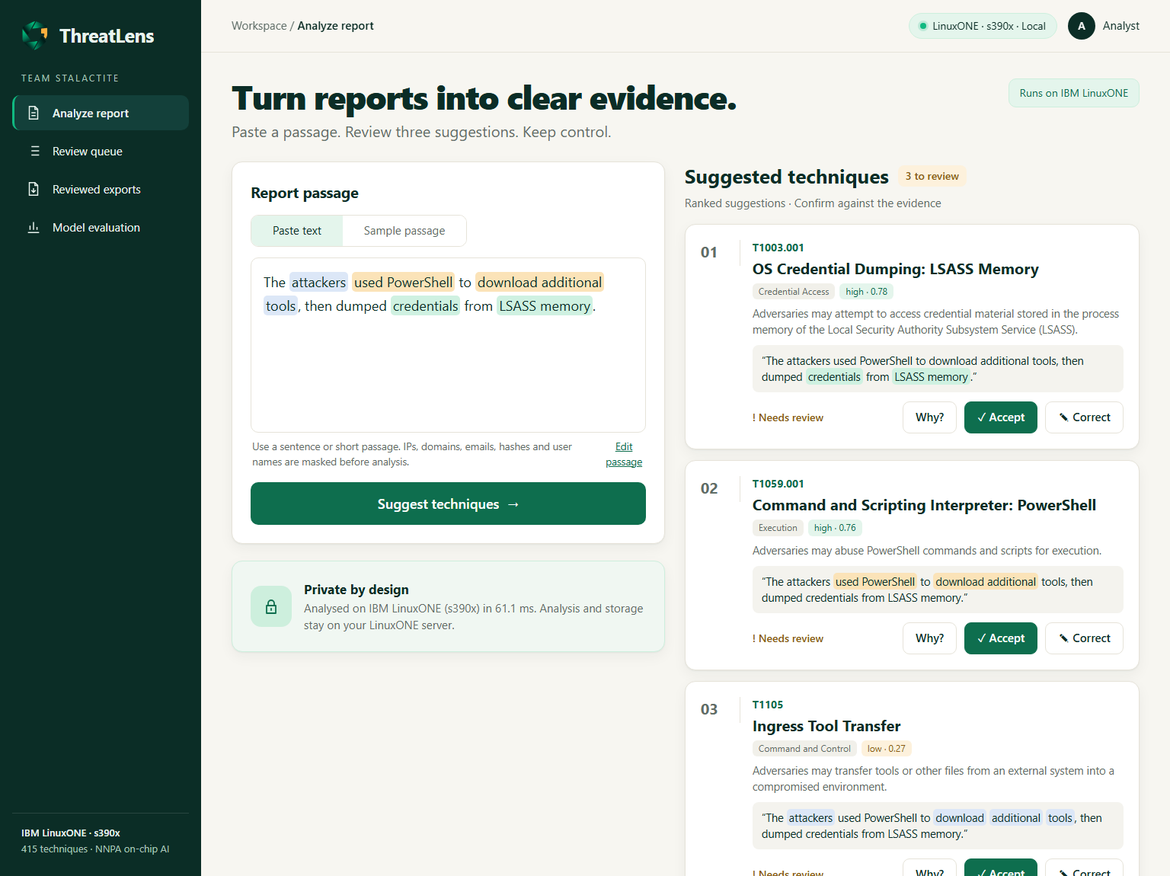
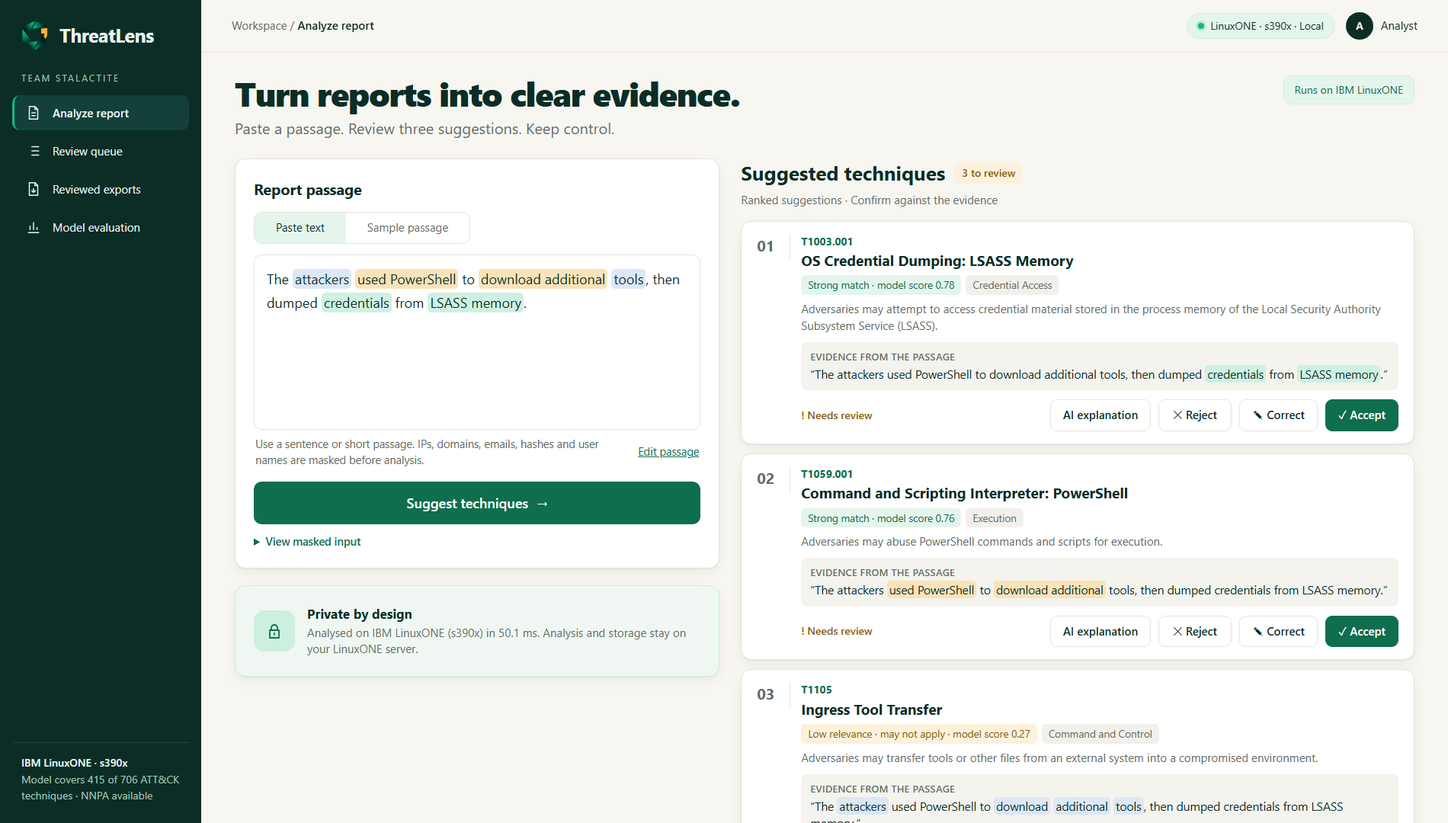
UI review fixes: Reject on cards, low-relevance flag, decided states, masked-input view, clearer model coverage and NNPA wording, evaluation model card

Changed region(s): [[0.0, 0.0, 0.9688, 1.0], [0.7812, 0.0, 0.9688, 0.0611], [0.875, 0.0917, 0.9688, 0.1222]]

diff --git a/app/static/app.js b/app/static/app.js
@@ -67,6 +67,8 @@ function decide(i, decision, extra = {}) {
 }
 const pending = () => state.decisions.filter((d) => d.decision === "pending").length;
 const DECISION_TEXT = { accepted: "✓ Accepted", corrected: "✎ Corrected", rejected: "✕ Rejected", pending: "! Needs review" };
+const MATCH = { high: "Strong match", medium: "Possible match", low: "Low relevance · may not apply" };
+const SCORE_TIP = "Classifier probability for this technique: a ranking signal, not verified accuracy.";
 
 function picker(i) {
   const s = state.analysis.suggestions[i];
@@ -89,7 +91,7 @@ function picker(i) {
 
 async function explain(i, btn) {
   const s = state.analysis.suggestions[i];
-  btn.disabled = true; btn.replaceChildren(h("span", { class: "spinner dark" }), "Granite is reasoning on LinuxONE…");
+  btn.disabled = true; btn.replaceChildren(h("span", { class: "spinner dark" }), "Granite is writing on LinuxONE…");
   try {
     state.explains[i] = await api("/api/explain", { technique_id: s.technique_id, evidence: s.evidence });
   } catch (e) { state.explains[i] = { error: e.message }; }
@@ -99,8 +101,9 @@ function whyBlock(i) {
   const x = state.explains[i];
   if (!x) return null;
   if (x.error) return h("div", { class: "why" }, x.error);
-  return h("div", { class: "why" }, x.text || "(no explanation generated)",
-    h("small", {}, `Draft by IBM Granite (${x.model}) running locally on LinuxONE in ${x.seconds}s${x.load_seconds ? `, model loaded in ${x.load_seconds}s` : ""}. Verify before use.`));
+  return h("div", { class: "why" }, h("div", { class: "why-h" }, "AI explanation · IBM Granite, generated on LinuxONE"),
+    x.text || "(no explanation generated)",
+    h("small", {}, `${x.model} · ${x.seconds}s. Generated text: check it against the evidence above.`));
 }
 
 // ---------- Analyze page ----------
@@ -134,7 +137,12 @@ function renderAnalyze() {
         a && !state.editing ? h("button", { class: "linkbtn", onclick: () => { state.editing = true; render(); } }, "Edit passage") : null),
       h("button", { class: "primary", onclick: (e) => analyze(e.currentTarget) }, "Suggest techniques", h("span", {}, "→")),
       a && Object.keys(a.redactions).length ? h("div", { class: "notice" },
-        "Masked before analysis: ", Object.entries(a.redactions).map(([k, v]) => `${v} ${k}`).join(", "), ". Only the masked text is stored or exported.") : null),
+        "Masked before analysis: ", Object.entries(a.redactions).map(([k, v]) => `${v} ${k}`).join(", "), ". Only the masked text is stored or exported.") : null,
+      a ? h("details", { class: "masked" }, h("summary", {}, "View masked input"),
+        h("p", { class: "desc" }, Object.keys(a.redactions).length
+          ? "The model, the AI explanation and any saved review only ever see this masked version:"
+          : "Nothing sensitive was detected, so the text was analysed as entered:"),
+        h("pre", {}, a.passage_redacted)) : null),
     h("div", { class: "card private" },
       h("div", { class: "ico" }, lockIcon()),
       h("div", {}, h("h3", {}, "Private by design"),
@@ -170,17 +178,19 @@ function suggestionCard(s, i) {
     h("div", {},
       h("div", { class: "tid" }, s.technique_id),
       h("h3", {}, s.name),
-      h("div", { class: "chips" }, s.tactics.map((t) => h("span", { class: "chip" }, t)),
-        h("span", { class: `chip conf-${s.confidence}`, title: "model probability" }, `${s.confidence} · ${s.score.toFixed(2)}`)),
+      h("div", { class: "chips" },
+        h("span", { class: `chip conf-${s.confidence}`, title: SCORE_TIP }, `${MATCH[s.confidence]} · model score ${s.score.toFixed(2)}`),
+        s.tactics.map((t) => h("span", { class: "chip" }, t))),
       h("p", { class: "desc" }, s.summary),
-      h("div", { class: "quote" }, "“", highlight(s.evidence, [{ terms: s.evidence_terms, cls: `r${i + 1}` }]), "”"),
+      h("div", { class: "quote" }, h("span", { class: "quote-h" }, "Evidence from the passage"), "“", highlight(s.evidence, [{ terms: s.evidence_terms, cls: `r${i + 1}` }]), "”"),
       h("div", { class: "actions" },
         h("span", { class: `state ${d.decision}` }, stateLabel),
-        h("button", { class: "btn", onclick: (e) => explain(i, e.currentTarget), disabled: !state.health?.granite?.available }, "Why?"),
+        h("button", { class: "btn", onclick: (e) => explain(i, e.currentTarget), disabled: !state.health?.granite?.available, title: "Ask IBM Granite (runs on LinuxONE) to explain this match" }, "AI explanation"),
         decided
-          ? h("button", { class: "linkbtn", onclick: undo, title: "Back to undecided" }, "Undo")
-          : [h("button", { class: "btn go", onclick: () => decide(i, "accepted", { corrected_to: "", corrected_name: "" }) }, "✓ Accept"),
-             h("button", { class: "btn", onclick: () => { state.picker = state.picker === i ? null : i; render(); } }, "✎ Correct")]),
+          ? h("button", { class: "btn", onclick: undo, title: "Back to undecided" }, "Undo")
+          : [h("button", { class: "btn", onclick: () => decide(i, "rejected", { corrected_to: "", corrected_name: "" }) }, "✕ Reject"),
+             h("button", { class: "btn", onclick: () => { state.picker = state.picker === i ? null : i; render(); } }, "✎ Correct"),
+             h("button", { class: "btn go", onclick: () => decide(i, "accepted", { corrected_to: "", corrected_name: "" }) }, "✓ Accept")]),
       state.picker === i ? picker(i) : null,
       whyBlock(i)));
 }
@@ -222,13 +232,19 @@ function renderQueue() {
     h("p", { class: "desc" }, s.summary),
     h("div", { class: "label" }, "Evidence from report"),
     h("div", { class: "quote" }, "“", highlight(s.evidence, [{ terms: s.evidence_terms, cls: `r${i + 1}` }]), "”"),
-    whyBlock(i) || h("button", { class: "btn", onclick: (e) => explain(i, e.currentTarget), disabled: !state.health?.granite?.available }, "Explain with IBM Granite"),
+    whyBlock(i) || h("button", { class: "btn", onclick: (e) => explain(i, e.currentTarget), disabled: !state.health?.granite?.available }, "AI explanation (IBM Granite)"),
     h("div", { class: "label" }, "Analyst note"),
     h("textarea", { placeholder: "Why you accepted or changed this mapping…", oninput: (e) => { state.decisions[i].note = e.target.value; state.savedId = null; } }, d.note || ""),
+    d.decision !== "pending" ? h("div", { class: `decided ${d.decision}` },
+      d.decision === "corrected" ? `✎ Corrected to ${d.corrected_to} · ${d.corrected_name}` : DECISION_TEXT[d.decision],
+      h("button", { class: "linkbtn", onclick: () => decide(i, "pending", { corrected_to: "", corrected_name: "" }) }, "Undo")) : null,
     h("div", { class: "btnrow" },
-      h("button", { class: "btn go", onclick: () => decide(i, "accepted", { corrected_to: "", corrected_name: "" }) }, "Accept suggestion"),
-      h("button", { class: "btn ghost", onclick: () => { state.picker = state.picker === i ? null : i; render(); } }, "Change technique"),
-      h("button", { class: "btn", onclick: () => decide(i, "rejected", { corrected_to: "", corrected_name: "" }) }, "Reject")),
+      h("button", { class: "btn go", disabled: d.decision === "accepted", onclick: () => decide(i, "accepted", { corrected_to: "", corrected_name: "" }) },
+        d.decision === "accepted" ? "Accepted ✓" : "Accept suggestion"),
+      h("button", { class: "btn ghost", onclick: () => { state.picker = state.picker === i ? null : i; render(); } },
+        d.decision === "corrected" ? "Change again" : "Change technique"),
+      h("button", { class: "btn", disabled: d.decision === "rejected", onclick: () => decide(i, "rejected", { corrected_to: "", corrected_name: "" }) },
+        d.decision === "rejected" ? "Rejected ✕" : "Reject")),
     state.picker === i ? picker(i) : null);
   const fmt = h("select", {}, h("option", { value: "csv" }, "CSV"), h("option", { value: "json" }, "JSON"));
   const left = pending();
@@ -257,15 +273,19 @@ async function renderExports() {
   view.replaceChildren(h("div", { class: "empty" }, "Loading saved reviews…"));
   const reviews = await api("/api/reviews").catch(() => []);
   const count = (r, k) => r.decisions.filter((d) => d.decision === k).length;
+  const dl = (fmt, cls) => reviews.length
+    ? h("a", { class: `btn ${cls}`, href: `/api/export?format=${fmt}` }, `Download ${fmt.toUpperCase()}`)
+    : h("button", { class: `btn ${cls}`, disabled: true, title: "Save a review first" }, `Download ${fmt.toUpperCase()}`);
   view.replaceChildren(
     h("div", { class: "hero" }, h("div", {}, h("h1", {}, "Reviewed exports."), h("p", { class: "lede" }, "Every saved review, stored on LinuxONE with sensitive values masked.")),
-      h("div", { class: "btnrow", style: "margin:0" }, h("a", { class: "btn go", href: "/api/export?format=csv" }, "Download CSV"), h("a", { class: "btn", href: "/api/export?format=json" }, "Download JSON"))),
+      h("div", { class: "btnrow", style: "margin:0" }, dl("csv", "go"), dl("json", ""))),
     reviews.length ? h("div", { class: "card" }, h("table", {},
       h("thead", {}, h("tr", {}, ["Saved (UTC)", "Analyst", "Accepted", "Corrected", "Rejected", "Passage (masked)"].map((t) => h("th", {}, t)))),
       h("tbody", {}, reviews.map((r) => h("tr", {}, h("td", {}, r.saved_utc), h("td", {}, r.analyst), h("td", {}, count(r, "accepted")),
         h("td", {}, count(r, "corrected")), h("td", {}, count(r, "rejected")),
         h("td", {}, r.passage_redacted.length > 140 ? r.passage_redacted.slice(0, 140) + "…" : r.passage_redacted))))))
-      : h("div", { class: "empty" }, "No reviews saved yet. Review a passage and choose ", h("b", {}, "Save review"), "."));
+      : h("div", { class: "empty" }, h("p", { style: "margin:0 0 16px" }, "No reviews saved yet. Analyse a passage, decide on each suggestion in the Review queue, then choose ", h("b", {}, "Save review"), "."),
+          h("a", { class: "btn go", href: "#/analyze" }, "Analyze a passage")));
 }
 
 // ---------- Model evaluation ----------
@@ -283,37 +303,37 @@ async function renderEvaluation() {
       h("td", {}, pct(x["hit@5"])), h("td", {}, x.micro_f1.toFixed(3)), h("td", {}, x.macro_f1.toFixed(3))));
   }
   const corpus = ev.corpus || {};
+  const T = R.test.all.technique, X = R.external_test.all.technique;
   view.replaceChildren(
     h("div", { class: "hero" }, h("div", {}, h("h1", {}, "Measured, not promised."),
-      h("p", { class: "lede" }, "Trained and tested on IBM LinuxONE. Tuned on validation only; test and CISA scored once.")), h("span", { class: "tag" }, `Built ${m.built_utc} UTC`)),
+      h("p", { class: "lede" }, "Trained and tested on IBM LinuxONE. Tuned on validation only; test and CISA scored once.")), h("span", { class: "tag" }, `Evaluated ${m.built_utc} UTC`)),
     h("div", { class: "tiles" },
-      tile(pct(R.test.all.technique["hit@3"]), "Test Hit@3", `${pct(R.test.clean.technique["hit@3"])} on near-duplicate-free rows`),
-      tile(pct(R.external_test.all.technique["hit@3"]), "CISA advisories Hit@3", `${pct(R.external_test.all.parent["hit@3"])} at parent-technique level`),
-      tile(`${m.latency_ms_per_sentence} ms`, "per sentence on LinuxONE", `${Math.round(m.batch_sentences_per_second)} sentences/s in batch`),
-      tile(m.labels_in_model, "techniques learned", `${m.features.toLocaleString()} features · fit ${m.fit_seconds}s`)),
+      tile(pct(T["hit@3"]), "Top-3 hit rate (test)", `${pct(R.test.clean.technique["hit@3"])} on near-duplicate-free rows`),
+      tile(T.micro_f1.toFixed(2), "Micro-F1 (test)", `threshold ${m.threshold}, tuned on validation`),
+      tile(pct(X["hit@3"]), "Top-3 on CISA advisories", `never trained on · ${pct(R.external_test.all.parent["hit@3"])} at parent level`),
+      tile(`${m.latency_ms_per_sentence} ms`, "Model latency per sentence", "TF-IDF + scoring on LinuxONE CPU; excludes network and browser")),
     h("div", { class: "stack" },
-      h("div", { class: "card" }, h("h2", {}, "Results by split"),
+      h("div", { class: "card" }, h("h2", {}, "Model card"),
+        kv(
+          "Model", `${m.model} (C=${m.C})`,
+          "Evaluated model", `${m.labels_in_model} techniques learned from train only (techniques with ≥ ${m.min_support} examples)`,
+          "Served model", hl?.model_meta?.trained_on ? `${hl.labels} techniques, retrained on ${hl.model_meta.trained_on} (${hl.model_meta.rows.toLocaleString()} rows) with the same settings` : "–",
+          "Label catalogue", hl ? `MITRE ATT&CK Enterprise STIX bundle (updated ${hl.attack_updated}), ${hl.catalogue} active techniques` : "–",
+          "Generative step", hl?.granite?.available ? `IBM Granite ${hl.granite.file} via llama.cpp ${hl.libraries.llama_cpp_python}: optional explanation, not used for scoring` : "not available",
+          "Platform", hl ? `IBM LinuxONE ${hl.platform}, ${hl.cpus} CPUs; NNPA on-chip AI ${hl.nnpa ? "available on this server (the classifier itself runs on CPU)" : "not listed"}` : m.platform,
+          "Corpus", corpus.unique_rows ? `${corpus.unique_rows.toLocaleString()} sentences; ${corpus.distinct_techniques_per_split?.train} techniques in train` : "–")),
+      h("details", { class: "card more" }, h("summary", {}, "View detailed evaluation"),
         h("p", { class: "desc" }, "Hit@k: a correct technique appears in the top k suggestions. Clean: held-out rows sharing under half their 8-word phrases with training text. Parent: sub-techniques counted at their parent technique."),
-        h("table", {}, h("thead", {}, h("tr", {}, ["Split", "Subset", "Level", "Rows", "Hit@1", "Hit@3", "Hit@5", "Micro-F1", "Macro-F1"].map((t) => h("th", {}, t)))), h("tbody", {}, metricRows))),
-      h("div", { class: "grid2" },
-        h("div", { class: "card" }, h("h2", {}, "Test split by source"),
-          h("table", {}, h("thead", {}, h("tr", {}, ["Source", "Rows", "Hit@3", "Hit@3 parent"].map((t) => h("th", {}, t)))),
-            h("tbody", {}, Object.entries(R.test_by_source).filter(([, b]) => b.technique.rows >= 20).map(([src, b]) =>
-              h("tr", {}, h("td", {}, src), h("td", {}, b.technique.rows), h("td", {}, pct(b.technique["hit@3"])), h("td", {}, pct(b.parent["hit@3"]))))))),
-        h("div", { class: "card" }, h("h2", {}, "Platform"),
-          h("div", { class: "kv" },
-            "Architecture", hl ? `${hl.platform} (IBM LinuxONE)` : m.platform,
-            "CPUs", hl?.cpus ?? "–",
-            "On-chip AI accelerator", hl ? (hl.nnpa ? "NNPA present" : "not listed") : "–",
-            "Model", `${m.model}, C=${m.C}, threshold ${m.threshold}`,
-            "Served model", hl?.model_meta?.trained_on ? `${hl.model} (trained on ${hl.model_meta.trained_on}, ${hl.model_meta.rows} rows)` : hl?.model ?? "–",
-            "Generative step", hl?.granite?.available ? `IBM Granite ${hl.granite.file} via llama.cpp ${hl.libraries.llama_cpp_python}` : "not available",
-            "scikit-learn", hl?.libraries?.["scikit-learn"] ?? "–",
-            "Corpus", corpus.unique_rows ? `${corpus.unique_rows.toLocaleString()} sentences, ${corpus.distinct_techniques_per_split?.train} techniques in train` : "–"))),
+        h("table", {}, h("thead", {}, h("tr", {}, ["Split", "Subset", "Level", "Rows", "Hit@1", "Hit@3", "Hit@5", "Micro-F1", "Macro-F1"].map((t) => h("th", {}, t)))), h("tbody", {}, metricRows)),
+        h("h2", { style: "margin-top:24px" }, "Test split by source"),
+        h("table", {}, h("thead", {}, h("tr", {}, ["Source", "Rows", "Hit@3", "Hit@3 parent"].map((t) => h("th", {}, t)))),
+          h("tbody", {}, Object.entries(R.test_by_source).filter(([, b]) => b.technique.rows >= 20).map(([src, b]) =>
+            h("tr", {}, h("td", {}, src), h("td", {}, b.technique.rows), h("td", {}, pct(b.technique["hit@3"])), h("td", {}, pct(b.parent["hit@3"]))))))),
       h("div", { class: "card" }, h("h2", {}, "Examples from CISA advisories (never seen in training)"),
         ev.examples.map((x) => h("div", { class: "ex" }, h("span", { class: x.hit ? "ok" : "no" }, x.hit ? "✓ correct in top 3 " : "✕ missed "), x.text,
           h("div", { class: "desc", style: "margin:4px 0 0" }, `Reference: ${x.gold} (${x.gold_names}) · Model top 3: ${x.top3.map((t, k) => `${t} ${x.names[k]}`).join(" | ")}`))))));
 }
+const kv = (...pairs) => h("div", { class: "kv" }, pairs.map((x) => h("div", {}, x)));
 const tile = (big, label, small) => h("div", { class: "card tile" }, h("b", {}, big), h("span", {}, label), h("small", {}, small));
 
 // ---------- Icons (inline SVG, no external assets) ----------
@@ -358,7 +378,8 @@ window.addEventListener("hashchange", () => { state.picker = null; render(); });
     document.getElementById("status-dot").classList.add("ok");
     document.getElementById("status-text").textContent = `LinuxONE · ${state.health.platform} · Local`;
     document.getElementById("foot-platform").textContent = `IBM LinuxONE · ${state.health.platform}`;
-    document.getElementById("foot-model").textContent = `${state.health.labels} techniques · ${state.health.nnpa ? "NNPA on-chip AI" : "local model"}`;
+    document.getElementById("foot-model").textContent =
+      `Model covers ${state.health.labels} of ${state.health.catalogue} ATT&CK techniques${state.health.nnpa ? " · NNPA available" : ""}`;
     state.samples = await api("/api/samples");
   } catch {
     document.getElementById("status-dot").classList.remove("ok");

diff --git a/app/static/styles.css b/app/static/styles.css
@@ -22,7 +22,7 @@ a { color: var(--emerald-ink); }
 .nav a:hover { background: var(--forest-2); }
 .nav a.active { background: var(--forest-2); border-left-color: var(--emerald); font-weight: 600; }
 .nav svg { width: 22px; height: 22px; stroke: currentColor; fill: none; stroke-width: 1.6; }
-.sidebar .foot { margin-top: auto; border-top: 1px solid rgba(255,255,255,.12); padding: 16px 12px 0; font-size: 13px; color: #A9C4BA; }
+.sidebar .foot { margin-top: auto; border-top: 1px solid rgba(255,255,255,.12); padding: 16px 12px 0; font-size: 14px; color: #A9C4BA; }
 .sidebar .foot b { color: #E9F4EF; font-weight: 600; display: block; margin-bottom: 2px; }
 
 /* Top bar */
@@ -35,13 +35,13 @@ main { min-width: 0; }
 .analyst { display: flex; align-items: center; gap: 10px; background: none; border: 0; padding: 0; }
 .avatar { width: 36px; height: 36px; border-radius: 50%; background: var(--forest); color: #fff; display: grid; place-items: center; font-weight: 600; font-size: 14px; }
 
-.page { padding: 34px 40px 48px; max-width: 1360px; }
+.page { padding: 30px 44px 48px; max-width: 1760px; }
 .hero { display: flex; justify-content: space-between; align-items: flex-start; gap: 20px; margin-bottom: 26px; }
 h1 { font-size: 44px; line-height: 1.05; letter-spacing: -.03em; margin: 0 0 8px; font-weight: 800; }
 .lede { font-size: 20px; color: var(--muted); margin: 0; }
 .tag { border: 1px solid var(--mint-2); background: var(--mint); color: var(--emerald-ink); border-radius: 10px; padding: 8px 14px; font-size: 14px; white-space: nowrap; }
 
-.grid2 { display: grid; grid-template-columns: minmax(0, 1fr) minmax(0, 1.05fr); gap: 26px; align-items: start; }
+.grid2 { display: grid; grid-template-columns: minmax(0, .9fr) minmax(0, 1.25fr); gap: 28px; align-items: start; }
 .card { background: var(--card); border: 1px solid var(--line); border-radius: var(--radius); box-shadow: var(--shadow); padding: 24px; }
 .card h2 { font-size: 20px; margin: 0 0 16px; letter-spacing: -.01em; }
 .tabs { display: inline-flex; border: 1px solid var(--line); border-radius: 10px; overflow: hidden; margin-bottom: 14px; }
@@ -50,11 +50,11 @@ h1 { font-size: 44px; line-height: 1.05; letter-spacing: -.03em; margin: 0 0 8px
 textarea { width: 100%; min-height: 230px; border: 1px solid var(--line); border-radius: 10px; padding: 16px; font-size: 18px; line-height: 1.6; resize: vertical; background: #fff; }
 textarea:focus, input:focus, select:focus { outline: 2px solid rgba(16,185,129,.35); border-color: var(--emerald); }
 .passage-view { min-height: 230px; border: 1px solid var(--line); border-radius: 10px; padding: 16px; font-size: 18px; line-height: 1.75; white-space: pre-wrap; }
-.hint { color: var(--muted); font-size: 13.5px; margin: 8px 2px 18px; display: flex; justify-content: space-between; gap: 10px; }
-.linkbtn { background: none; border: 0; color: var(--emerald-ink); padding: 0; text-decoration: underline; font-size: 13.5px; }
+.hint { color: var(--muted); font-size: 14.5px; margin: 8px 2px 18px; display: flex; justify-content: space-between; gap: 10px; }
+.linkbtn { background: none; border: 0; color: var(--emerald-ink); padding: 0; text-decoration: underline; font-size: 14.5px; white-space: nowrap; }
 .primary { width: 100%; background: var(--emerald-ink); color: #fff; border: 0; border-radius: 10px; padding: 15px; font-size: 18px; font-weight: 600; display: flex; justify-content: center; align-items: center; gap: 10px; }
 .primary:hover { background: #0b5d42; } .primary:disabled { opacity: .55; cursor: progress; }
-.btn { border: 1px solid var(--line); background: #fff; border-radius: 9px; padding: 9px 16px; font-weight: 500; display: inline-flex; align-items: center; gap: 8px; }
+.btn { border: 1px solid var(--line); background: #fff; border-radius: 9px; padding: 9px 16px; font-weight: 500; display: inline-flex; align-items: center; justify-content: center; gap: 8px; white-space: nowrap; min-width: 96px; text-decoration: none; color: var(--ink); font-size: 15px; }
 .btn:hover { border-color: #c9c5b8; }
 .btn.go { background: var(--emerald-ink); border-color: var(--emerald-ink); color: #fff; }
 .btn.go:hover { background: #0b5d42; }
@@ -73,31 +73,34 @@ textarea:focus, input:focus, select:focus { outline: 2px solid rgba(16,185,129,.
 .sugg-head { display: flex; align-items: center; gap: 12px; } .sugg-head h2 { font-size: 26px; margin: 0; }
 .badge { background: var(--amber-soft); color: var(--amber-ink); border-radius: 8px; padding: 4px 10px; font-size: 14px; font-weight: 600; }
 .sub { color: var(--muted); margin: 6px 0 16px; }
-.sugg { display: grid; grid-template-columns: 52px 1fr; gap: 16px; margin-bottom: 14px; padding: 20px; }
+.sugg { display: grid; grid-template-columns: 44px 1fr; gap: 14px; margin-bottom: 12px; padding: 16px 20px; }
 .sugg.done-accepted { border-color: var(--emerald); box-shadow: inset 4px 0 0 var(--emerald), var(--shadow); }
 .sugg.done-corrected { border-color: #8FB0E0; box-shadow: inset 4px 0 0 #2C5DA8, var(--shadow); }
 .sugg.done-rejected { opacity: .7; box-shadow: inset 4px 0 0 var(--danger), var(--shadow); }
 .rank { font-size: 20px; font-weight: 700; color: var(--muted); border-right: 1px solid var(--line); height: 34px; }
 .tid { color: var(--emerald-ink); font-weight: 700; font-size: 14px; }
-.sugg h3 { margin: 2px 0 6px; font-size: 20px; }
+.sugg h3 { margin: 1px 0 6px; font-size: 19px; }
 .chips { display: flex; flex-wrap: wrap; gap: 6px; margin-bottom: 8px; }
-.chip { font-size: 12px; background: #F1F0EA; border-radius: 6px; padding: 2px 8px; color: var(--muted); }
+.chip { font-size: 13.5px; background: #F1F0EA; border-radius: 6px; padding: 3px 9px; color: var(--muted); }
 .chip.conf-high { background: var(--mint); color: var(--emerald-ink); } .chip.conf-medium { background: #EEF3EA; color: #4D6B36; }
 .chip.conf-low { background: var(--amber-soft); color: var(--amber-ink); }
-.desc { color: var(--muted); font-size: 14.5px; margin: 0 0 10px; }
-.quote { background: #F4F3EE; border-radius: 8px; padding: 10px 12px; font-size: 14.5px; margin-bottom: 12px; }
+.desc { color: var(--muted); font-size: 15px; margin: 0 0 10px; }
+.sugg .desc { display: -webkit-box; -webkit-line-clamp: 2; -webkit-box-orient: vertical; overflow: hidden; }
+.quote { background: #F4F3EE; border-radius: 8px; padding: 10px 12px; font-size: 15.5px; margin-bottom: 12px; }
+.quote-h { display: block; font-size: 12.5px; font-weight: 600; letter-spacing: .04em; text-transform: uppercase; color: var(--muted); margin-bottom: 3px; }
 .actions { display: flex; gap: 10px; justify-content: flex-end; flex-wrap: wrap; align-items: center; }
 .state { margin-right: auto; font-weight: 600; font-size: 14px; display: inline-flex; gap: 6px; align-items: center; }
 .state.accepted { color: var(--emerald-ink); } .state.corrected { color: #2C5DA8; } .state.rejected { color: var(--danger); } .state.pending { color: var(--amber-ink); }
-.why { margin-top: 12px; border-left: 3px solid var(--emerald); background: #F6FBF8; padding: 10px 12px; border-radius: 0 8px 8px 0; font-size: 14.5px; }
-.why small { display: block; color: var(--muted); margin-top: 4px; font-size: 12px; }
+.why { margin-top: 12px; border-left: 3px solid #7C6BD6; background: #F6F4FD; padding: 10px 12px; border-radius: 0 8px 8px 0; font-size: 15px; }
+.why-h { font-size: 12.5px; font-weight: 700; letter-spacing: .04em; text-transform: uppercase; color: #5A4BB5; margin-bottom: 4px; }
+.why small { display: block; color: var(--muted); margin-top: 4px; font-size: 13px; }
 .picker { margin-top: 12px; border: 1px solid var(--line); border-radius: 10px; padding: 12px; background: #FBFAF6; }
 .picker input { width: 100%; border: 1px solid var(--line); border-radius: 8px; padding: 9px 12px; margin-bottom: 8px; }
 .picker ul { list-style: none; margin: 0; padding: 0; max-height: 220px; overflow: auto; }
 .picker li button { width: 100%; text-align: left; border: 0; background: none; padding: 7px 8px; border-radius: 6px; font-size: 14px; }
 .picker li button:hover { background: var(--mint); } .picker li small { color: var(--muted); }
 .empty { color: var(--muted); text-align: center; padding: 50px 20px; border: 1px dashed var(--line); border-radius: var(--radius); background: #fff; }
-.footnote { color: var(--muted); font-size: 12.5px; margin-top: 18px; display: flex; justify-content: space-between; align-items: center; gap: 12px; }
+.footnote { color: var(--muted); font-size: 14px; margin-top: 18px; display: flex; justify-content: space-between; align-items: center; gap: 12px; }
 
 mark { border-radius: 5px; padding: 1px 3px; color: inherit; }
 mark.r1 { background: #CFF1E1; } mark.r2 { background: #FBE3B8; } mark.r3 { background: #DCE7F7; }
@@ -111,7 +114,7 @@ mark.r4 { background: #EADCF5; } mark.r5 { background: #F6D9D4; }
 .kpi .ico.warn { background: var(--amber-soft); }
 .kpi b { font-size: 30px; display: block; line-height: 1; } .kpi span { color: var(--muted); font-size: 16px; }
 .queue { display: grid; grid-template-columns: minmax(0, 1.55fr) minmax(0, 1fr); gap: 22px; align-items: start; }
-table { width: 100%; border-collapse: collapse; font-size: 14.5px; }
+table { width: 100%; border-collapse: collapse; font-size: 15px; }
 th { text-align: left; font-weight: 600; color: var(--muted); background: #F4F3EE; padding: 11px 12px; }
 td { padding: 12px; border-top: 1px solid var(--line); vertical-align: top; }
 tr.sel td { background: #FFF8EC; } tbody tr { cursor: pointer; } tbody tr:hover td { background: #FAFAF6; }
@@ -127,12 +130,12 @@ select { border: 1px solid var(--line); border-radius: 9px; padding: 9px 12px; b
 
 /* Evaluation */
 .tiles { display: grid; grid-template-columns: repeat(4, 1fr); gap: 16px; margin-bottom: 22px; }
-.tile b { display: block; font-size: 32px; letter-spacing: -.02em; } .tile span { color: var(--muted); font-size: 14px; }
-.tile small { display: block; color: var(--muted); margin-top: 6px; font-size: 12.5px; }
+.tile b { display: block; font-size: 34px; letter-spacing: -.02em; } .tile span { color: var(--ink); font-size: 15.5px; font-weight: 600; }
+.tile small { display: block; color: var(--muted); margin-top: 6px; font-size: 14px; }
 .stack { display: grid; gap: 22px; }
 .ex { border-top: 1px solid var(--line); padding: 12px 0; font-size: 14.5px; }
 .ex .ok { color: var(--emerald-ink); font-weight: 700; } .ex .no { color: var(--danger); font-weight: 700; }
-.kv { display: grid; grid-template-columns: 190px 1fr; gap: 6px 14px; font-size: 14.5px; } .kv div:nth-child(odd) { color: var(--muted); }
+.kv { display: grid; grid-template-columns: 190px 1fr; gap: 8px 16px; font-size: 15px; } .kv div:nth-child(odd) { color: var(--muted); }
 .bar { height: 8px; background: #EEECE4; border-radius: 99px; overflow: hidden; margin-top: 6px; } .bar i { display: block; height: 100%; background: var(--emerald); }
 .spinner { width: 16px; height: 16px; border: 2px solid rgba(255,255,255,.4); border-top-color: #fff; border-radius: 50%; animation: spin .8s linear infinite; }
 .spinner.dark { border-color: rgba(11,45,38,.2); border-top-color: var(--forest); }
@@ -141,3 +144,12 @@ select { border: 1px solid var(--line); border-radius: 9px; padding: 9px 12px; b
 
 @media (max-width: 1100px) { .grid2, .queue { grid-template-columns: 1fr; } .tiles { grid-template-columns: repeat(2, 1fr); } }
 @media (max-width: 760px) { body { grid-template-columns: 1fr; } .sidebar { position: static; height: auto; } .page, .topbar { padding-left: 16px; padding-right: 16px; } h1 { font-size: 32px; } .kpis { grid-template-columns: 1fr; } }
+
+details.masked { margin-top: 12px; font-size: 14.5px; }
+details.masked summary, details.more summary { cursor: pointer; color: var(--emerald-ink); font-weight: 600; }
+details.masked pre { white-space: pre-wrap; background: #F4F3EE; border-radius: 8px; padding: 10px 12px; font-family: ui-monospace, Consolas, monospace; font-size: 13.5px; margin: 6px 0 0; }
+details.more summary { font-size: 18px; }
+details.more[open] summary { margin-bottom: 14px; }
+.decided { margin-top: 14px; display: flex; justify-content: space-between; align-items: center; border-radius: 9px; padding: 10px 14px; font-weight: 600; }
+.decided.accepted { background: var(--mint); color: var(--emerald-ink); } .decided.corrected { background: #E7EEF9; color: #2C5DA8; } .decided.rejected { background: #F8E6E2; color: var(--danger); }
+.btn.go:disabled { opacity: .75; }

diff --git a/app/server.py b/app/server.py
@@ -64,6 +64,9 @@ class App:
         with open(ROOT / "data" / "processed" / "techniques.csv", encoding="utf-8", newline="") as f:
             for r in csv.DictReader(f):
                 self.techniques[r["technique_id"]] = r
+        bundle = ROOT / "data" / "reference" / "mitre" / "enterprise-attack.json"
+        objs = json.loads(bundle.read_text(encoding="utf-8"))["objects"] if bundle.exists() else []
+        self.attack_updated = max((o.get("modified", "") for o in objs), default="")[:10]
         self.granite = Granite()
         meta = ROOT / "models" / "threatlens_final.json"
         self.model_meta = json.loads(meta.read_text()) if meta.exists() else {}
@@ -106,6 +109,7 @@ class App:
         return {"status": "ok", "platform": platform.machine(), "python": platform.python_version(),
                 "cpus": os.cpu_count(), "nnpa": "nnpa" in features.split(),
                 "model": self.model_path.name, "labels": len(self.model.labels_),
+                "catalogue": len(self.techniques), "attack_updated": self.attack_updated,
                 "model_load_seconds": self.load_seconds, "model_meta": self.model_meta,
                 "granite": {"available": self.granite.available, "file": self.granite.path.name,
                             "loaded": self.granite._llm is not None},
